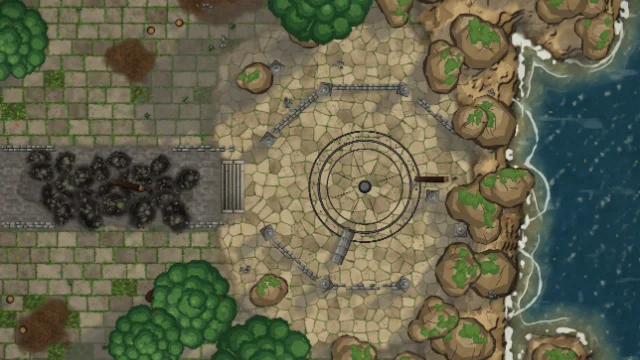
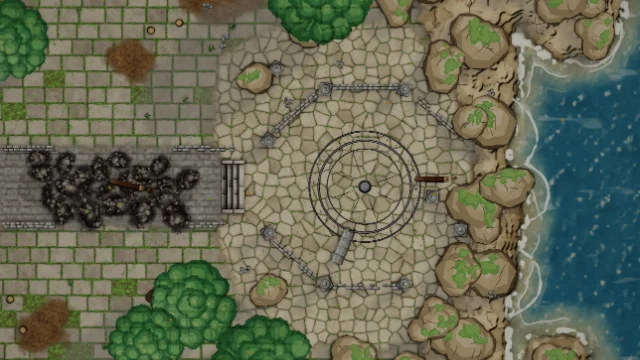
revised examples for the new renderer and updated the assistant guide
guard room and garden use the new finish presets; all thumbnails regenerated; guide covers relief, split toning, wall faces and structures.

diff --git a/scripts/exemplos/sala-da-guarda.ts b/scripts/exemplos/sala-da-guarda.ts
@@ -71,7 +71,7 @@ export const salaDaGuarda: Exemplo = {
     k.presenca('ordem.sangue', { disco: [36.6, 13.0], raio: 0.45, irregular: 0.9 }, 0.45);
 
     k.clima('apagao', { time: '23:30', ambient: { color: '#6676a0', intensity: 0.52 }, sun: null, tempo: { dust: 0.2 } });
-    k.acabamento(null, { vignette: 0.55, saturation: 0.9, edges: { kind: 'dark', amount: 0.4 }, glow: 0.8 });
+    k.acabamento('masmorra', { vignette: 0.55, edges: { kind: 'dark', amount: 0.4 }, glow: 0.8 });
     k.guardarClima('alarme', 'Alarme soado', undefined, { tempo: { embers: 0.3, fog: 0.2 } });
 
     k.notaDeComodo(sala, { leitura: 'Moedas e dados ainda em cima das mesas; as velas queimam pela metade. Quem jogava saiu às pressas.', notasMestre: 'Seis guardas dormem na galeria sul. O estandarte azul esconde uma alavanca que fecha a porta de ferro.' });

diff --git a/scripts/exemplos/jardim-do-colosso.ts b/scripts/exemplos/jardim-do-colosso.ts
@@ -84,7 +84,7 @@ export const jardimDoColosso: Exemplo = {
 
     // Fim de tarde: o sol baixo estica a sombra do colosso pelo pátio.
     k.clima('tarde', { time: '16:40', ambient: { color: '#fff1da', intensity: 0.95 }, tempo: { leaves: 0.25, wind: 0.2, dust: 0.1 } });
-    k.acabamento('quente', { vignette: 0.3, saturation: 1.12, tint: '#ffe9c4', edges: { kind: 'none', amount: 0 }, glow: 0.3 });
+    k.acabamento('dia-dourado', { vignette: 0.3, saturation: 1.12, tint: '#fff2dc', edges: { kind: 'none', amount: 0 }, glow: 0.3 });
     k.guardarClima('entardecer', 'Entardecer dourado', 'entardecer', { time: '17:20' });
     k.guardarClima('lua-sobre-o-colosso', 'Lua sobre o colosso', 'noite', { time: '22:30' });
 

diff --git a/docs/assistente/guia/ferramentas-atlas.md b/docs/assistente/guia/ferramentas-atlas.md
@@ -13,6 +13,8 @@ Abre um mapa no Atlas (pela rota, como na galeria) e espera o editor aparecer na
 Ajusta clima e acabamento do mapa aberto (um passo de desfazer). Presets em `atlas_catalogo { parte: "climas" }`. `"guardarClima"` `{ id, nome }` salva no mapa.
 - Presets atmosféricos (`neve`, `neblina`, `tempestade`, `noite`, `apagao`, `neon`) já trazem `glow`, `vignette`, `edges` (`clouds`/`fog`/`dark`) e — em `neve` — `sol.angle` rasante (`0.75`); `acabamento.preset` também oferece `'inverno-nevado'` e `'sombrio-cinematografico'`.
 - Em exteriores e cenas personalizadas, ajuste `acabamento` com `glow` (`0.35–0.8`), `vignette` (`0.3–0.5`), `edges` (`{ kind: "clouds" | "fog" | "dark", amount }`) e `grade` opcional, além de `sol.angle` baixo/rasante (`0.65–0.85`) para sombras longas e leitura de relevo dramática.
+- Luz com relevo (já ligada; só mexa se precisar): `relief` (0–1, padrão 0,7) faz a luz realçar juntas, biséis e degraus do lado de onde vem; `ao` (0–1, padrão 0,55) escurece o pé de paredes e móveis e o fundo de poços; `exposure` (0–4, padrão 0,82) clareia ou escurece o todo antes da curva de tom; `split` (`{ shadows, highlights, balance, amount }`) puxa as sombras para uma cor e as luzes para outra. Luzes acima de 1 de `intensity` estouram com bloom (fogo, feixe).
+- Presets de acabamento com tonalização dividida: `masmorra` (sombras azul-petróleo, luzes âmbar: masmorra, gruta, salão à luz de tochas), `sepia` (investigação, documento antigo) e `dia-dourado` (fim de tarde, ruína ao sol).
 
 ## atlas_andares
 
@@ -91,6 +93,7 @@ Tipo dos cômodos: ver `atlas_catalogo`.
 - `telhado`: omitido = estilo pela função/gênero (contorno circular >= 8 lados escolhe `torre-redonda`; ou herdado do cômodo vizinho; varandas ficam sem); `null` = sem telhado; ou id de um **estilo de telhado** (ver tabela ou `atlas_catalogo { parte: "telhado" }`) ou id de uma cobertura avulsa (`telha.barro`, etc.).
 - `telhadoForma`, `telhadoCumeeira`, `telhadoDetalhes`: sobrescritas opcionais sobre o telhado resolvido (`quatro-aguas`, `duas-aguas`, `plano`, `piramide`, `cone`; `auto`, `h`, `v`; `chamine`, `cruz`, `sino`, `catavento`, `claraboia`, `caixa-dagua`).
 - `andar`: id de andar opcional (`null` ou omitido = térreo; crie o andar antes em `atlas_andares`).
+- `wallFace`: material da face interna das paredes (o que se vê da parede de dentro do cômodo, entre o topo e o piso); omitido usa o `papel`. Além dos papéis (`papel.*`, `boiserie.*`), há `parede.reboco`, `parede.tabuas` (cabana), `parede.alvenaria` (masmorra, castelo) e `parede.rocha` (gruta).
 
 | Estilo | Cobertura | Forma | Íngreme | Detalhes |
 | --- | --- | --- | --- | --- |
@@ -262,6 +265,7 @@ Parâmetros de cada objeto:
 - `params`: objeto com parâmetros da receita (opcional).
 - `andar`: id de andar opcional (`null` ou omitido = térreo).
 - `escada`: opcional para receitas de escada/alçapão (`escada`, `escada.caracol`, `escada.pedra`, `escada.madeira`, `alcapao`); `{ leva: string | null, posicao?: [x, y] }` define a ligação entre andares (`leva: null` aponta para o térreo).
+- **Estruturas com altura** (`estrutura.*`): use-as para tudo que sobe ou desce no mesmo mapa; passe em `params.material` o **material do piso em volta**, para degrau, estrado e piso serem da mesma pedra, e sempre `rotacao` explícita. `estrutura.escadaria` (`largura`, `comprimento`, `desce: 0|1`, `muretas: 0|1`; sobe ou desce de +y para −y, então gire para apontar: `rotacao: Math.PI/2` sobe para leste), `estrutura.estrado` (`largura`, `profundidade`, `altura`, `degraus`: altar, palco, relicário), `estrutura.muralha` (`largura`, `profundidade`, `patamares`; bastião ou guarda de escadaria, face voltada para +y) e `estrutura.plataforma` (`comprimento`, `largura`, `altura`, `guarda`: andaime, passarela, palanque). O `circulo-runico` aceita `brilho` (0–1) para runas acesas.
 
 ## atlas_paredes
 

diff --git a/docs/plano/fidelidade-de-render.md b/docs/plano/fidelidade-de-render.md
@@ -63,7 +63,7 @@ Tudo isso fica **só no estilo Ilustrado**. O Pixel continua com o caminho atual
 | [L9](#l9--paredes-com-topo-e-face-interna) | Gemini + Opus | Parede com topo e face interna visível, material por cômodo, objetos de parede na face | — | ✅ |
 | [L10](#l10--materiais-com-altura-e-variação-por-peça) | **Opus** | Pintores de altura e variação peça a peça nos padrões de piso principais; resolução do terreno | L4 | ✅ |
 | [L11](#l11--estruturas-com-altura-fogo-e-o-santuário) | **Opus** | Família `estrutura.*` (estrado, escadaria, muralha, plataforma), fogo novo e o santuário refeito | L5–L10 | ✅ |
-| [L12](#l12--exemplos-revistos-e-guia) | **Opus** | Sala da guarda, mansão e jardim revistos; guia do assistente atualizado | L11 | ⬜ |
+| [L12](#l12--exemplos-revistos-e-guia) | **Opus** | Sala da guarda, mansão e jardim revistos; guia do assistente atualizado | L11 | ✅ |
 
 As fichas L1–L4 e L9 podem andar em paralelo (L1 → L2 numa sessão; L3 → L4 em outra; L9 em outra).
 
@@ -383,9 +383,11 @@ vec3 cor = base * (ambiente + (luz - uAmbiente) * mix(1.0, realce, uRelevo));
 
 ---
 
-## L12 — Exemplos revistos e guia  ⬜  [Opus]
+## L12 — Exemplos revistos e guia  ✅  [Opus]
 
 Revisar `sala-da-guarda`, `mansao-da-ilha` e `jardim-do-colosso` com as estruturas, faces de parede e presets novos; regenerar as miniaturas; atualizar o guia do assistente (`relief`, `ao`, `split`, `estrutura.*`, `wallFace`) para que o Claude do app use o que existe.
+
+**Nota:** `sala-da-guarda` passou ao acabamento `masmorra` e `jardim-do-colosso` ao `dia-dourado`; a `mansao-da-ilha` não precisou de mudança no roteiro (as faces de papel e o relevo vêm do motor). Todas as 17 miniaturas regeneradas. Guia: `ferramentas-atlas.md` (`relief`, `ao`, `exposure`, `split`, presets com tonalização, `wallFace` com os materiais de face, família `estrutura.*` e o `brilho` do `circulo-runico`) e a linha de masmorra da tabela de luz em `projetar.md`. **Pendente:** o jardim continua longe da referência porque a diferença é de composição (a referência tem um colosso de vários metros cuja sombra longa atravessa o pátio; o nosso tem uma estátua pequena): pede uma rodada de composição desse mapa, não de motor.
 
 ---
 

diff --git a/progress.md b/progress.md
@@ -644,3 +644,4 @@ A Fase 9 está concluída. A Fase 6 está concluída, menos a 6.2b (importar os 
 - **L10 — Materiais com altura e variação por peça** — `ALTURAS_DE_PADRAO` em `src/procedural/materiais.ts` com pintores de altura que seguem a geometria do desenho (pisos de peças: junta, bisel, inclinação por peça, micro-relevo; lisos e estampados planos), `layoutDeTabuas` e `layoutDeLajes` compartilhados entre cor e altura, terreno do Ilustrado de 24 para 32 px/m (`src/procedural/estilos/ilustrado.ts`; 40 px/m dobrava o tempo de pintura). Testes em `tests/unit/altura.test.ts` (`1146/1146` unitários + `npm run typecheck`).
 - **L9 (passo 5) — Papel legível na face e materiais de face** — Em `src/procedural/faces-de-parede.ts`, o material da face é pintado com `ACHATAMENTO_DO_PAPEL = 0.55` em vez do achatamento da projeção (o motivo do papel virava linha) e `PROJECAO` passou de `0.18` para `0.24`; materiais `parede.reboco`, `parede.tabuas`, `parede.alvenaria` e `parede.rocha` em `src/procedural/materiais.ts`. Testes em `tests/unit/faces-de-parede.test.ts` (`1146/1146` unitários + `npm run typecheck`).
 - **L11 — Estruturas com altura e o santuário** — Família `estrutura.escadaria`, `estrutura.estrado`, `estrutura.muralha` e `estrutura.plataforma` em `src/procedural/receitas/estrutura.ts` (material do piso, altura real em `Parte.z`, escada que desce com `z` negativo), `brilho` nas runas do `circulo-runico` (`src/procedural/receitas/mata.ts`), `alvenaria` exportada sem faixas sem área (`praca.ts`) e o santuário refeito (`scripts/exemplos/santuario-da-luz.ts`, `public/exemplos/`). Testes em `tests/unit/receitas.test.ts` (`1146/1146` unitários + `npm run typecheck`).
+- **L12 — Exemplos revistos e guia** — `sala-da-guarda` com acabamento `masmorra` e `jardim-do-colosso` com `dia-dourado` (`scripts/exemplos/`), as 17 miniaturas regeneradas (`public/exemplos/`) e o guia do assistente atualizado (`docs/assistente/guia/ferramentas-atlas.md`, `projetar.md`) com o acabamento de relevo, a tonalização dividida, `wallFace` e as estruturas. Pendente: recompor o jardim do colosso (diferença de composição). `1146/1146` unitários + `npm run typecheck`.

diff --git a/docs/assistente/guia/projetar.md b/docs/assistente/guia/projetar.md
@@ -52,7 +52,7 @@ Poucas fontes com propósito (lareira, tocha, lanterna na praça). Escolha o cli
 | --- | --- | --- | --- | --- | --- |
 | Exterior frio / nevado | `0.65–0.85` (rasante) | `0.35–0.55` | `0.35–0.48` | `clouds` ou `fog` (`0.35–0.5`) | Sombras longas azuladas; neve 0.25–0.45 |
 | Noturno / ravina | `0.7–0.8` | `0.45–0.8` | `0.3–0.5` | `dark` ou `fog` (`0.5–0.7`) | `ambient` azulado frio + tochas `#ffa842` |
-| Gruta / masmorra | `null` (ou baixo fora) | `0.4–0.65` | `0.4–0.55` | `dark` (`0.5–0.7`) | Contraste entre tochas quentes e `ambient` frio/escuro |
+| Gruta / masmorra | `null` (ou baixo fora) | `0.6–0.9` | `0.4–0.55` | `dark` (`0.3–0.5`) | Acabamento `masmorra`; tochas e braseiros quentes (`intensity` 1,4–2,2) sobre `ambient` frio a 0,5–0,6 |
 
 ## 8. Conferir antes de entregar
 
